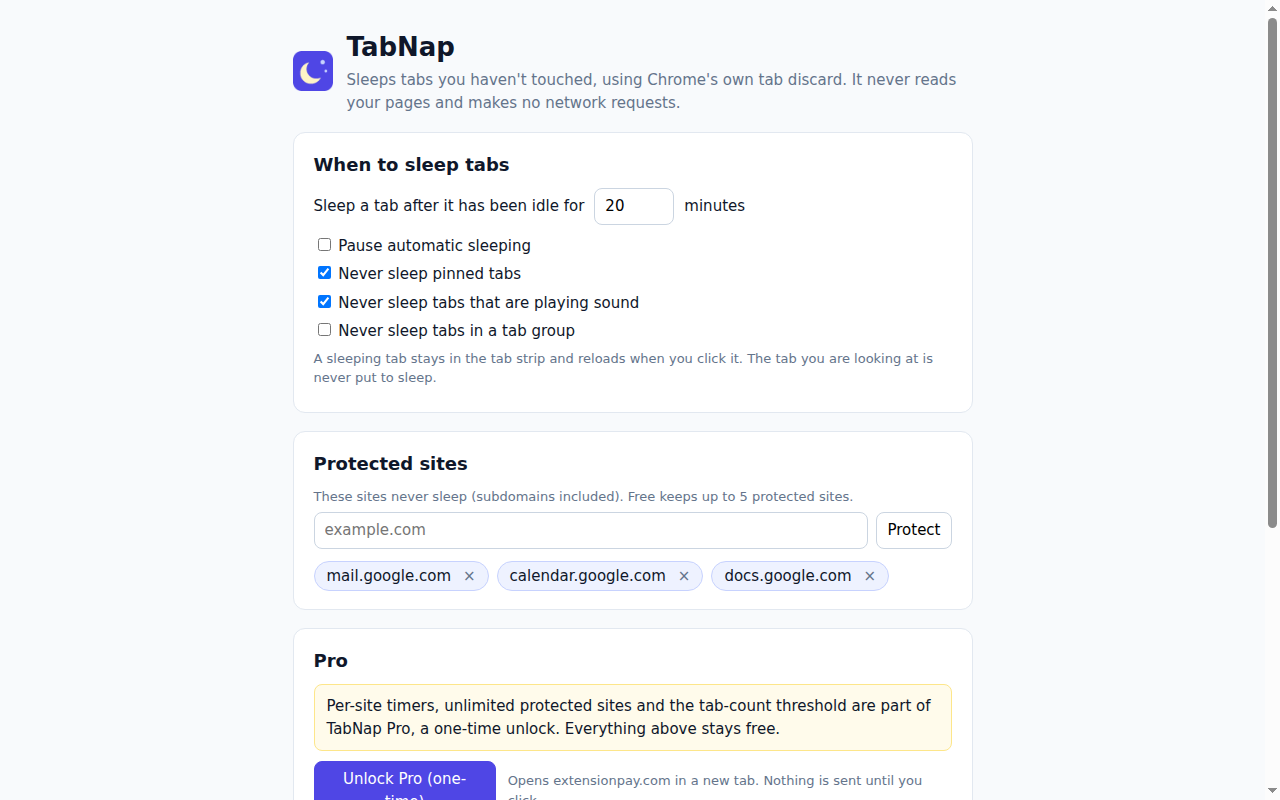
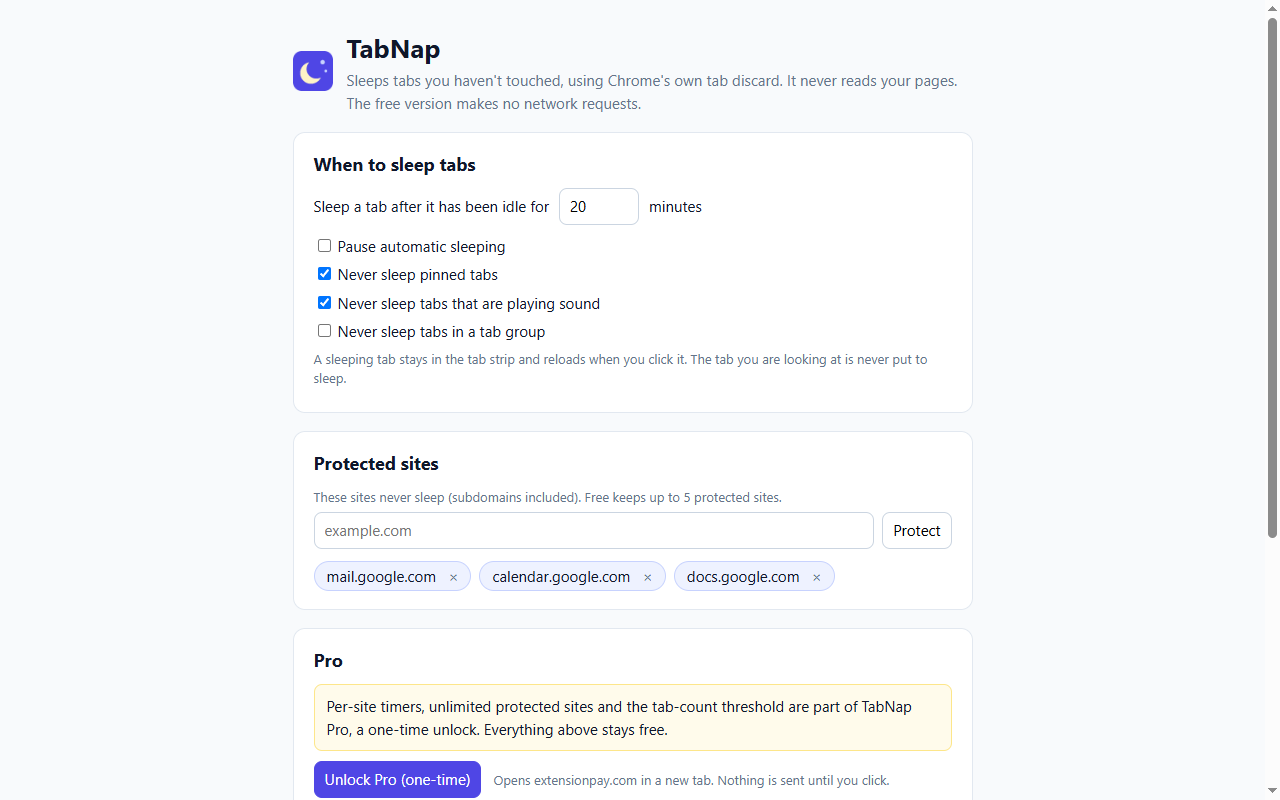
Say only the free version makes no network requests
The store description and the options page claimed "no network"
outright, but buying Pro contacts ExtensionPay after an explicit click.
Chrome Web Store policy requires accurate disclosure, so all four places
now say what CrumbSweep says: the free version makes no network
requests. Screenshots regenerated to match.

diff --git a/docs/index.html b/docs/index.html
@@ -4,7 +4,7 @@
     <meta charset="utf-8" />
     <meta name="viewport" content="width=device-width, initial-scale=1" />
     <title>TabNap: Sleep Idle Tabs for Chrome</title>
-    <meta name="description" content="TabNap puts tabs you haven't touched to sleep using Chrome's built-in tab discard. No access to your pages, no network requests, no tracking." />
+    <meta name="description" content="TabNap puts tabs you haven't touched to sleep using Chrome's built-in tab discard. Never reads your pages, no tracking. The free version makes no network requests." />
     <style>
       :root { color-scheme: light dark; --accent: #4f46e5; }
       body { font-family: system-ui, sans-serif; line-height: 1.6; max-width: 720px; margin: 0 auto; padding: 48px 20px 80px; }

diff --git a/src/shared/constants.ts b/src/shared/constants.ts
@@ -2,7 +2,7 @@
 // here and nowhere else.
 export const EXTENSION_NAME = "TabNap: Sleep Idle Tabs";
 export const EXTENSION_DESCRIPTION =
-  "Puts tabs you haven't touched to sleep with Chrome's built-in tab discard. No access to your pages, no network, no tracking.";
+  "Sleeps idle tabs with Chrome's built-in tab discard. Never reads your pages, no tracking. Free version makes no network requests.";
 
 /** Outbound links shown in the UI. Nothing here is fetched at runtime. */
 export const HOMEPAGE_URL = "https://dookofcards.github.io/tabnap/";

diff --git a/src/options/options.html b/src/options/options.html
@@ -13,7 +13,7 @@
           <h1>TabNap</h1>
           <p class="tagline">
             Sleeps tabs you haven't touched, using Chrome's own tab discard.
-            It never reads your pages and makes no network requests.
+            It never reads your pages. The free version makes no network requests.
           </p>
         </div>
       </header>

diff --git a/SUBMISSION.md b/SUBMISSION.md
@@ -6,7 +6,7 @@ Paste these into the Developer Dashboard. Limits are checked below.
 TabNap: Sleep Idle Tabs
 
 ## Short description (≤132; equals the manifest description)
-Puts tabs you haven't touched to sleep with Chrome's built-in tab discard. No access to your pages, no network, no tracking.
+Sleeps idle tabs with Chrome's built-in tab discard. Never reads your pages, no tracking. Free version makes no network requests.
 
 ## Category
 Productivity (Tools)
